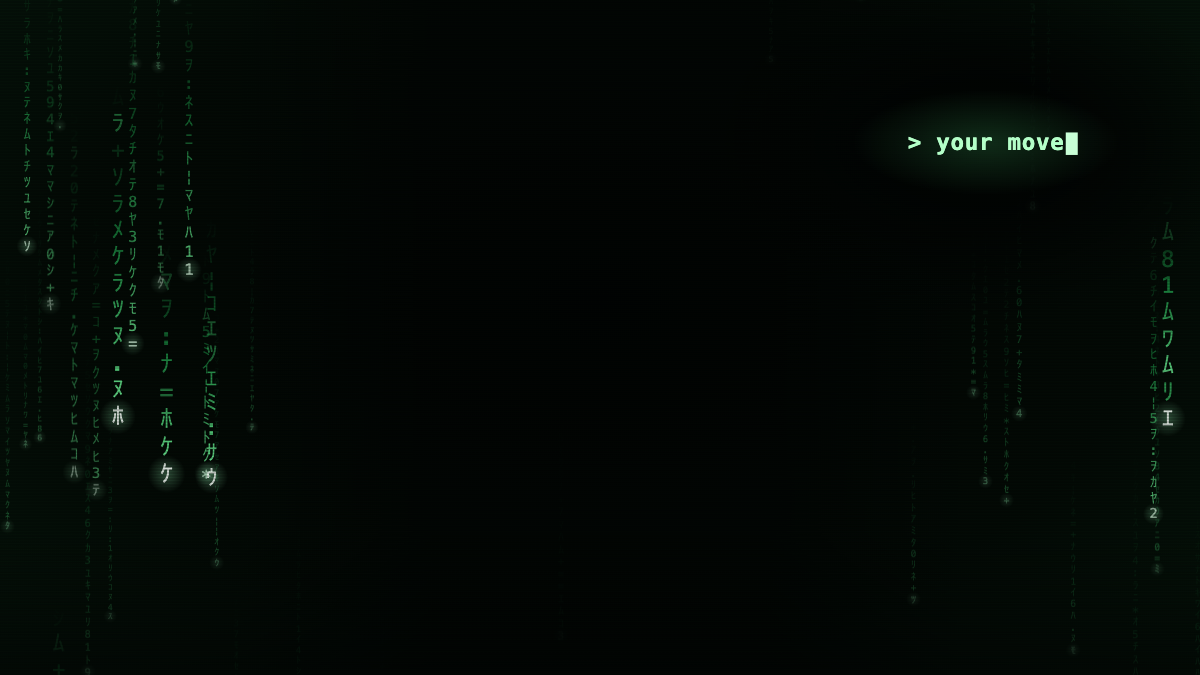
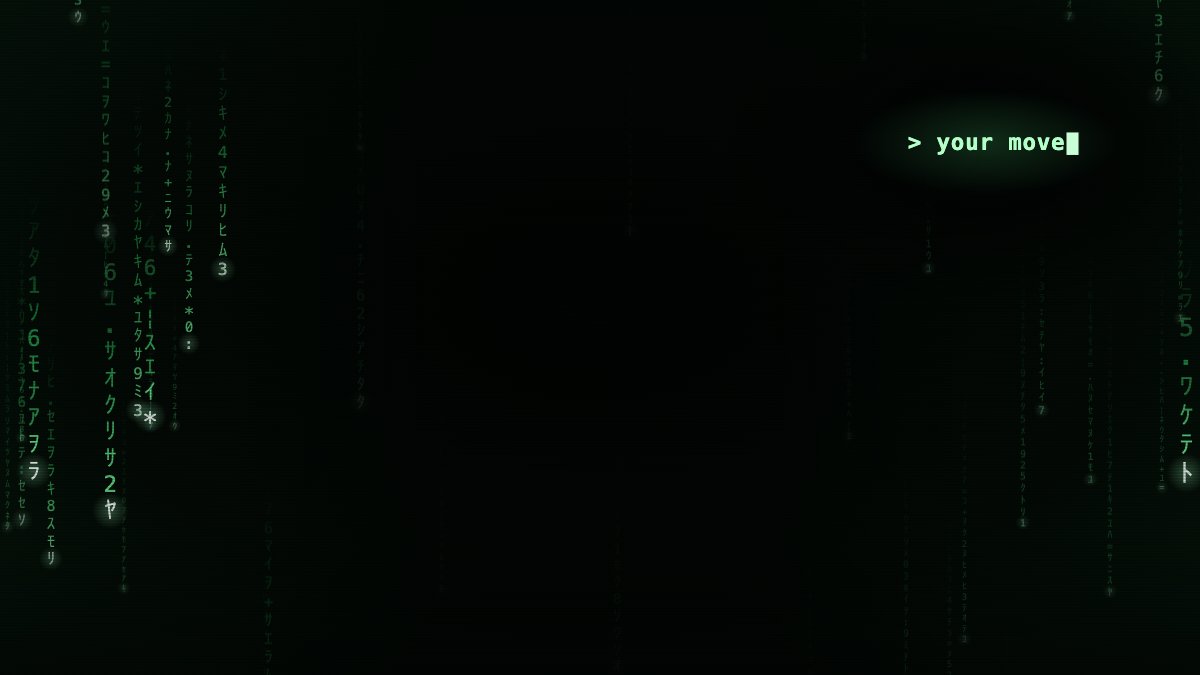
matrix-mode: changing glyphs never share a slot, and the rain parts where the prompt is

diff --git a/mods/matrix-mode/hooks/scene/rain.ts b/mods/matrix-mode/hooks/scene/rain.ts
@@ -10,7 +10,7 @@
 // cubic-bezier, no fill-mode on anything that moves.
 
 import { FONT, glyph } from './glyphs.js'
-import { CHAT, TALL } from './layout.js'
+import { CHAT, PROMPT, TALL, parting } from './layout.js'
 import type { Part } from './part.js'
 import { seeded, type Random } from './random.js'
 
@@ -65,6 +65,16 @@ function keeps(r: Random, layer: Layer, outside: number): boolean {
   return r.next() < Math.min(1, 0.4 + (outside - layer.edge) / 260)
 }
 
+// The slots a column's changing glyphs take: never the first or the head, never twice.
+function slots(r: Random, length: number, count: number): number[] {
+  const free = Array.from({ length: length - 2 }, (_, i) => i + 1)
+  for (let i = free.length - 1; i > 0; i--) {
+    const j = Math.floor(r.next() * (i + 1))
+    ;[free[i], free[j]] = [free[j]!, free[i]!]
+  }
+  return free.slice(0, count)
+}
+
 function columns(seed: number): Column[] {
   const r = seeded(seed)
   const all: Column[] = []
@@ -81,11 +91,7 @@ function columns(seed: number): Column[] {
         glyphs: Array.from({ length }, () => glyph(r)),
         fall: r.pick(layer.fall[0], layer.fall[1]),
         lead: r.next(),
-        flips: Array.from({ length: layer.flips }, () => ({
-          at: 1 + Math.floor(r.next() * (length - 2)),
-          to: glyph(r),
-          every: r.pick(0.9, 2.6),
-        })),
+        flips: slots(r, length, layer.flips).map(at => ({ at, to: glyph(r), every: r.pick(0.9, 2.6) })),
       })
     }
   })
@@ -95,8 +101,22 @@ function columns(seed: number): Column[] {
 const COLUMNS = columns(1999)
 
 // How the rain falls: `pace` stretches every fall (1 while working), `dim` scales every
-// depth's brightness, `hold` columns stop where they are, and none falls in `parted`.
-export type Weather = { pace: number; dim: number; hold: number; parted?: [number, number] }
+// depth's brightness, `hold` columns stop where they are, and with `parts` the mid and
+// near rain parts around the prompt, wherever the window puts it.
+export type Weather = { pace: number; dim: number; hold: number; parts: boolean }
+
+// Each layout's parting, and the class that hides a column there: a column in the wide
+// parting shows only in a tall window, one in the tall parting only in a wide window.
+const PARTINGS = [
+  { range: parting(PROMPT.wide), cls: 'pw' },
+  { range: parting(PROMPT.tall), cls: 'pt' },
+]
+
+// The parting class a column takes, if it falls in one.
+function parted(c: Column, weather: Weather): string | undefined {
+  if (!weather.parts || c.layer === 0) return undefined
+  return PARTINGS.find(p => c.x >= p.range[0] && c.x <= p.range[1])?.cls
+}
 
 const n = (v: number) => Math.round(v)
 
@@ -131,37 +151,44 @@ function held(c: Column, r: Random): string {
   return `<g transform="translate(${c.x} ${y})" font-size="${c.size}">${draw(c, false, 1)}</g>`
 }
 
-function falling(c: Column, pace: number): string {
-  const fall = c.fall * pace
-  const style = `animation-duration:${fall.toFixed(2)}s;animation-delay:-${(c.lead * fall).toFixed(2)}s`
-  return `<g transform="translate(${c.x} 0)" font-size="${c.size}"><g class="f${c.layer}" style="${style}">${draw(c, true, pace)}</g></g>`
-}
-
-function inside(x: number, range?: [number, number]): boolean {
-  return range !== undefined && x >= range[0] && x <= range[1]
-}
-
 // Each depth falls from just above the scene, its longest column clear of the top, to
 // just below it.
+const BOTTOM = 1040
+const top = (layer: Layer) => -Math.ceil(layer.length[1] * layer.size[1] * PITCH)
+
+// The resting transform is where the column starts its fall, so with reduced motion
+// the columns stand staggered instead of in an even curtain. A running animation
+// overrides it.
+function falling(c: Column, weather: Weather): string {
+  const fall = c.fall * weather.pace
+  const from = top(LAYERS[c.layer]!)
+  const rest = n(from + c.lead * (BOTTOM - from))
+  const style = `animation-duration:${fall.toFixed(2)}s;animation-delay:-${(c.lead * fall).toFixed(2)}s;transform:translateY(${rest}px)`
+  const cls = parted(c, weather)
+  return (
+    `<g transform="translate(${c.x} 0)" font-size="${c.size}"${cls === undefined ? '' : ` class="${cls}"`}>` +
+    `<g class="f${c.layer}" style="${style}">${draw(c, true, weather.pace)}</g></g>`
+  )
+}
+
 function keyframes(layer: Layer, index: number): string {
-  const tallest = Math.ceil(layer.length[1] * layer.size[1] * PITCH)
   return (
     `.f${index}{animation:f${index} 6s linear infinite;will-change:transform}` +
-    `@keyframes f${index}{from{transform:translateY(-${tallest}px)}to{transform:translateY(1040px)}}`
+    `@keyframes f${index}{from{transform:translateY(${top(layer)}px)}to{transform:translateY(${BOTTOM}px)}}`
   )
 }
 
 export function rain(seed: number, weather: Weather): Part {
   const r = seeded(seed)
   // Only mid and near columns at the edges hold, and never one where the rain parts.
-  const holdable = COLUMNS.filter(c => c.layer > 0 && !c.inner && !inside(c.x, weather.parted))
+  const holdable = COLUMNS.filter(c => c.layer > 0 && !c.inner && parted(c, weather) === undefined)
   const stopped = new Set<Column>()
   while (stopped.size < Math.min(weather.hold, holdable.length)) stopped.add(holdable[Math.floor(r.next() * holdable.length)]!)
 
   const depths = LAYERS.map((layer, index) => {
-    const falls = COLUMNS.filter(c => c.layer === index && !stopped.has(c) && (index === 0 || !inside(c.x, weather.parted)))
-    const edges = falls.filter(c => !c.inner).map(c => falling(c, weather.pace)).join('')
-    const centre = falls.filter(c => c.inner).map(c => falling(c, weather.pace)).join('')
+    const falls = COLUMNS.filter(c => c.layer === index && !stopped.has(c))
+    const edges = falls.filter(c => !c.inner).map(c => falling(c, weather)).join('')
+    const centre = falls.filter(c => c.inner).map(c => falling(c, weather)).join('')
     const still = COLUMNS.filter(c => c.layer === index && stopped.has(c)).map(c => held(c, r)).join('')
     return (
       `<g opacity="${(layer.opacity * weather.dim).toFixed(2)}">${edges}<g class="inner">${centre}</g></g>` +
@@ -183,7 +210,8 @@ export function rain(seed: number, weather: Weather): Part {
       LAYERS.map(keyframes).join('') +
       '.fa{animation:fa 2s steps(1) infinite}.fb{animation:fb 2s steps(1) infinite}' +
       '@keyframes fa{0%{opacity:1}50%{opacity:0}}@keyframes fb{0%{opacity:0}50%{opacity:1}}' +
-      `.inner{opacity:.3}@media ${TALL}{.inner{opacity:1}}`,
+      `.inner{opacity:.3}.pw{display:none}` +
+      `@media ${TALL}{.inner{opacity:1}.pw{display:inline}.pt{display:none}}`,
     animated: [...LAYERS.map((_, index) => `.f${index}`), '.fa', '.fb'],
     still: '.fb{display:none}',
     svg: `<g font-family="${FONT}" text-anchor="middle" fill="#3fd26f">${depths}</g>`,

diff --git a/mods/matrix-mode/tests/look.test.ts b/mods/matrix-mode/tests/look.test.ts
@@ -1,5 +1,7 @@
 import { expect, test } from 'claude-code/testing'
 
+import { sceneFor } from '../hooks/scene/index.js'
+
 test('session start sets the dark look with the scene', async ($, on) => {
   let sent: any
   on('theme.set', ($, e) => { sent = e; return { value: { isDrawn: true } as any } })
@@ -95,8 +97,51 @@ test('each scene has one reduced-motion rule naming every animated class, and no
     expect(animated.length > 0).toBe(true)
     for (const cls of animated) expect(rule).toContain(cls)
     // Desktop stops the whole scene for good once a full-size layer animates
-    expect(scene).not.toMatch(/<rect width="1600" height="1000"[^>]*class=/)
+    expect(fullSizeMovers(scene, new Set(animated))).toEqual([])
   }
   for (const cls of ['.f0', '.f1', '.f2', '.fa', '.fb']) expect(working).toContain(cls)
   for (const cls of ['.key', '.caret', '.blink']) expect(waiting).toContain(cls)
+})
+
+// Every full-size rect (1600 x 1000 or larger) that carries a class, or sits inside an
+// element with an animated class. Walks the tags with a stack of each one's classes.
+function fullSizeMovers(svg: string, animated: Set<string>): string[] {
+  const found: string[] = []
+  const open: string[][] = []
+  for (const [tag, close, name, attrs, self] of svg.matchAll(/<(\/?)([\w:]+)([^>]*?)(\/?)>/g)) {
+    if (close) { open.pop(); continue }
+    const classes = (/class="([^"]*)"/.exec(attrs!)?.[1] ?? '').split(' ').filter(Boolean).map(c => `.${c}`)
+    const size = (attr: string) => Number(new RegExp(`\\b${attr}="([\\d.]+)"`).exec(attrs!)?.[1] ?? 0)
+    if (name === 'rect' && size('width') >= 1600 && size('height') >= 1000) {
+      const wrapped = open.some(cls => cls.some(c => animated.has(c)))
+      if (classes.length > 0 || wrapped) found.push(tag)
+    }
+    if (!self) open.push(classes)
+  }
+  return found
+}
+
+test('the same burst draws the same scene, built fresh', () => {
+  const five = sceneFor({ mode: 'waiting', burst: 5 })
+  const six = sceneFor({ mode: 'waiting', burst: 6 })
+  expect(six).not.toBe(five)
+  expect(sceneFor({ mode: 'waiting', burst: 5 })).toBe(five)
+})
+
+test('no column has two changing glyphs in the same slot', () => {
+  for (const scene of [sceneFor({ mode: 'working' }), sceneFor({ mode: 'waiting', burst: 5 })]) {
+    const columns = [...scene.matchAll(/<g class="f\d"[^>]*>(.*?)<\/g>/g)]
+    expect(columns.length > 40).toBe(true)
+    for (const [, body] of columns) {
+      const slots = [...body!.matchAll(/<text class="fa" y="(\d+)"/g)].map(m => m[1])
+      expect(new Set(slots).size).toBe(slots.length)
+    }
+  }
+})
+
+test('a full-size rect that animates is caught', () => {
+  const moving = new Set(['.m'])
+  expect(fullSizeMovers('<g class="m"><rect height="1000" x="0" width="1600"/></g>', moving).length).toBe(1)
+  expect(fullSizeMovers('<rect fill="red" width="1700" height="1100" class="still"/>', moving).length).toBe(1)
+  expect(fullSizeMovers('<g class="m"></g><rect width="1600" height="1000"/>', moving).length).toBe(0)
 })

diff --git a/mods/matrix-mode/hooks/scene/prompt.ts b/mods/matrix-mode/hooks/scene/prompt.ts
@@ -6,14 +6,14 @@
 // So with reduced motion the whole line simply stands, typed.
 
 import { FONT } from './glyphs.js'
-import { PROMPT, TALL } from './layout.js'
+import { PROMPT, TALL, type Spot } from './layout.js'
 import type { Part } from './part.js'
 
 const LINE = '> your move'
 const SIZE = 30
 // Every character gets its own slot, so any monospace face lines up with the cursor.
-const ADVANCE = 19
-const WIDTH = LINE.length * ADVANCE
+const WIDTH = PROMPT.width
+const ADVANCE = WIDTH / LINE.length
 // Seconds before the first key, and between keys.
 const START = 1.4
 const KEY = 0.13
@@ -23,11 +23,11 @@ const keys = [...LINE]
   .map((c, i) =>
     c === ' '
       ? ''
-      : `<text class="key" x="${i * ADVANCE + ADVANCE / 2}" style="animation-duration:${(START + i * KEY).toFixed(2)}s">${c}</text>`,
+      : `<text class="key" x="${(i * ADVANCE + ADVANCE / 2).toFixed(1)}" style="animation-duration:${(START + i * KEY).toFixed(2)}s">${c}</text>`,
   )
   .join('')
 
-const at = (x: number, y: number) => `transform:translate(${x}px,${y}px)`
+const at = ({ x, y }: Spot) => `transform:translate(${x}px,${y}px)`
 
 export const PROMPT_PART: Part = {
   defs:
@@ -36,8 +36,8 @@ export const PROMPT_PART: Part = {
     '<radialGradient id="phosphor"><stop offset="0" stop-color="#5dff8f" stop-opacity="0.16"/>' +
     '<stop offset="1" stop-color="#5dff8f" stop-opacity="0"/></radialGradient>',
   css:
-    `.spot{${at(PROMPT.x, PROMPT.y)}}` +
-    `@media ${TALL}{.spot{${at(800 - WIDTH / 2, PROMPT.tallY)}}}` +
+    `.spot{${at(PROMPT.wide)}}` +
+    `@media ${TALL}{.spot{${at(PROMPT.tall)}}}` +
     '.key{animation:hide 1s steps(1) 1}@keyframes hide{from,to{opacity:0}}' +
     `.caret{transform:translateX(${WIDTH}px);animation:caret ${TYPED.toFixed(2)}s steps(${LINE.length},start) 1}` +
     `@keyframes caret{0%,${((START / TYPED) * 100).toFixed(1)}%{transform:translateX(0px)}100%{transform:translateX(${WIDTH}px)}}` +
@@ -49,6 +49,6 @@ export const PROMPT_PART: Part = {
     `<ellipse cx="${WIDTH / 2}" cy="-10" rx="${WIDTH + 140}" ry="230" fill="url(#clearing)"/>` +
     `<ellipse cx="${WIDTH / 2}" cy="-10" rx="${WIDTH * 0.85}" ry="70" fill="url(#phosphor)"/>` +
     `<g font-family="${FONT}" font-size="${SIZE}" font-weight="600" text-anchor="middle" fill="#b4ffc8">${keys}</g>` +
-    `<g class="caret"><rect class="blink" x="2" y="${-SIZE * 0.78}" width="${ADVANCE - 3}" height="${SIZE}" fill="#c8ffd6"/></g>` +
+    `<g class="caret"><rect class="blink" x="2" y="${-SIZE * 0.78}" width="${(ADVANCE - 3).toFixed(1)}" height="${SIZE}" fill="#c8ffd6"/></g>` +
     `</g>`,
 }

diff --git a/mods/matrix-mode/hooks/scene/index.ts b/mods/matrix-mode/hooks/scene/index.ts
@@ -1,17 +1,17 @@
 // The backdrop for a signal state: code rain while Claude works; when it needs you, the
 // rain slows to a crawl and dims, a few columns stop where they are, and it parts for a
-// prompt typed out in the upper right, its cursor blinking until you answer.
+// prompt typed out in the upper right (top centre in a tall window), its cursor
+// blinking until you answer.
 // Desktop draws it in a sandboxed frame; CSS animation only, no script.
 
 import type { Signal } from '../../types'
 import { GROUND, SHADE } from './ground.js'
-import { PARTING } from './layout.js'
 import type { Part } from './part.js'
 import { PROMPT_PART } from './prompt.js'
 import { rain, type Weather } from './rain.js'
 
-const WORKING_RAIN: Weather = { pace: 1, dim: 1, hold: 0 }
-const WAITING_RAIN: Weather = { pace: 5, dim: 0.6, hold: 9, parted: PARTING }
+const WORKING_RAIN: Weather = { pace: 1, dim: 1, hold: 0, parts: false }
+const WAITING_RAIN: Weather = { pace: 5, dim: 0.6, hold: 9, parts: true }
 
 // Stacks the parts back to front, with one reduced-motion rule naming every part's
 // animated classes, so a part's new class can't be left moving.

diff --git a/mods/matrix-mode/hooks/scene/layout.ts b/mods/matrix-mode/hooks/scene/layout.ts
@@ -7,9 +7,17 @@ export const CHAT = { left: 440, right: 1160 }
 // the rain there comes up and the prompt moves to the top centre.
 export const TALL = '(max-aspect-ratio: 4/3)'
 
-// Where the waiting prompt line starts: upper right in a wide window, clear of the chat;
-// in a tall one, at `tallY`, centred.
-export const PROMPT = { x: 1210, y: 250, tallY: 130 }
+// Where the waiting prompt line sits, and how wide it is: upper right in a wide window,
+// clear of the chat; top centre in a tall one.
+const WIDTH = 210
+export const PROMPT = {
+  width: WIDTH,
+  wide: { x: 1210, y: 250 },
+  tall: { x: 800 - WIDTH / 2, y: 130 },
+}
 
-// The stretch of rain that parts around the prompt in a wide window.
-export const PARTING: [number, number] = [PROMPT.x - 50, PROMPT.x + 300]
+// The stretch of rain that parts around the prompt, wherever it sits.
+export type Spot = { x: number; y: number }
+export function parting(spot: Spot): [number, number] {
+  return [spot.x - 50, spot.x + WIDTH + 90]
+}

diff --git a/mods/matrix-mode/types/index.d.ts b/mods/matrix-mode/types/index.d.ts
@@ -1,5 +1,6 @@
 // What the signal shows. One value, so a state that can't happen can't be written:
-// only a lit signal has a bat burst, and only a pending ask has an ask id.
+// only a waiting signal has a burst (it picks the columns that hold), and only a pending
+// ask has an ask id.
 export type Signal =
   // Claude is busy: the code rains.
   | { mode: 'working' }
